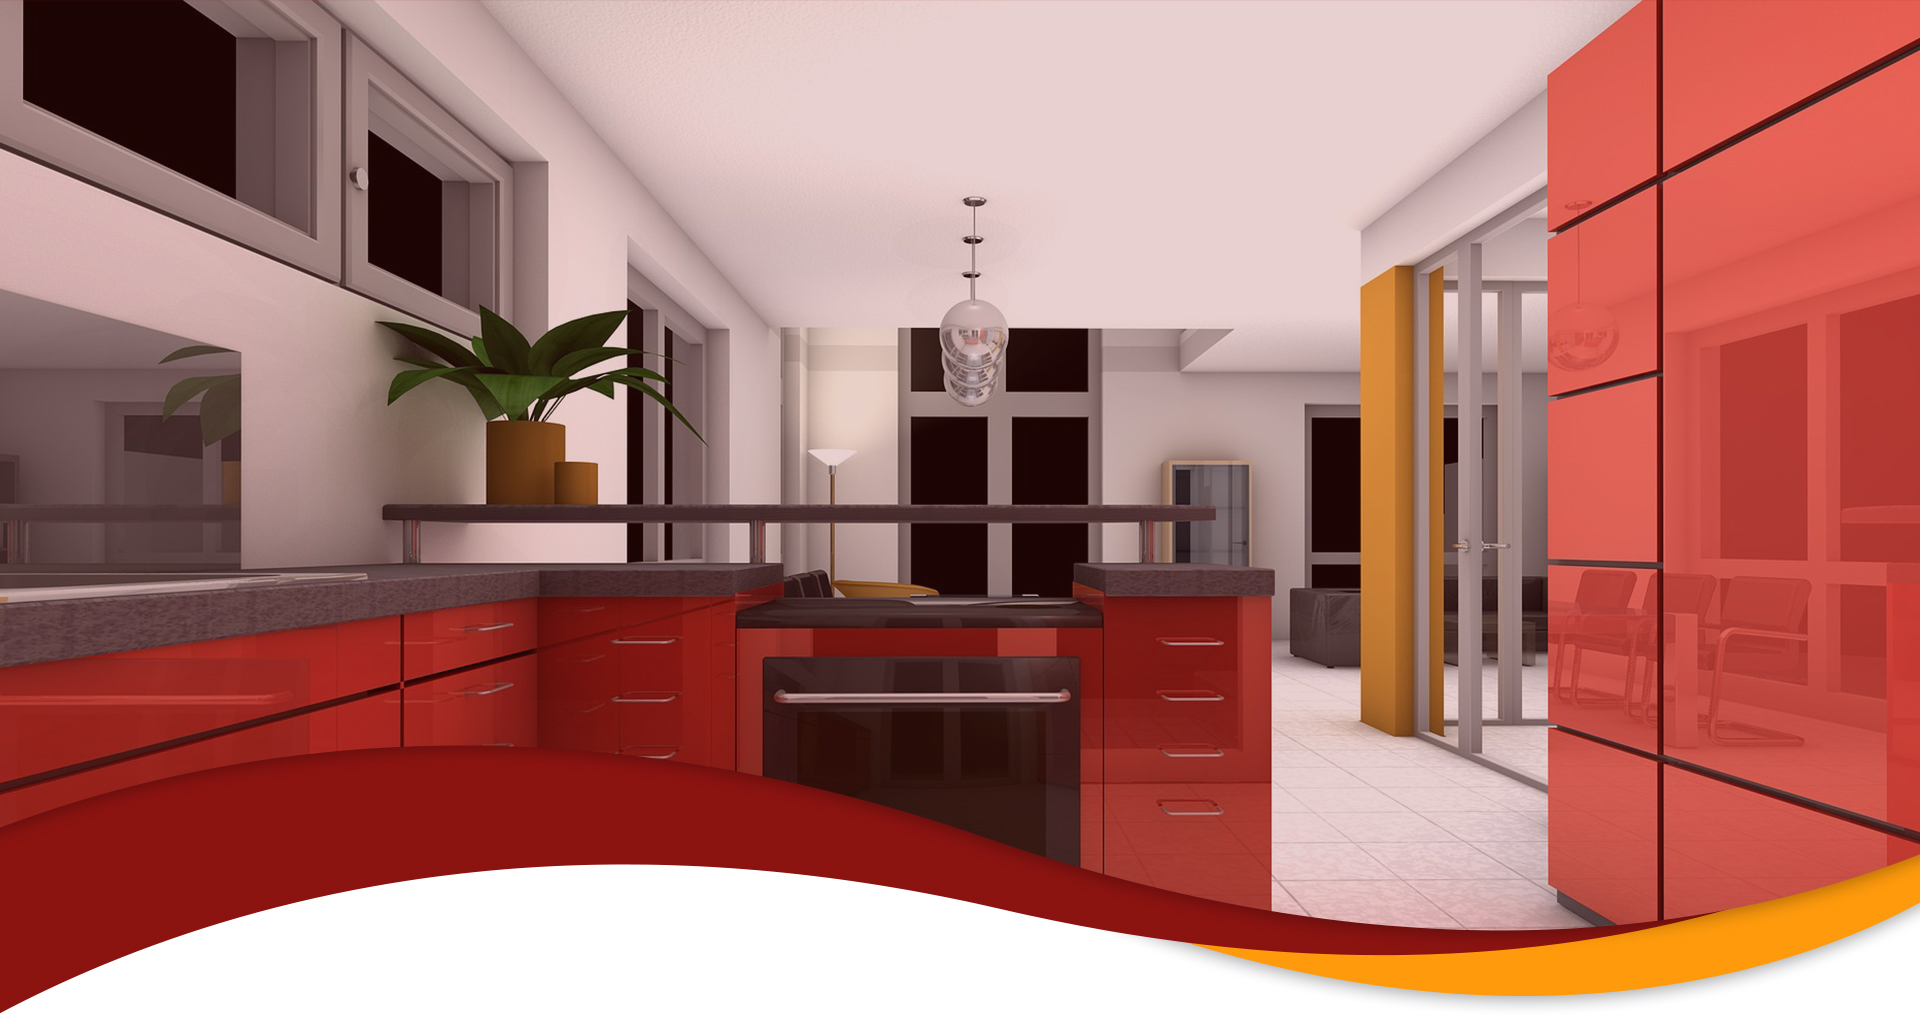
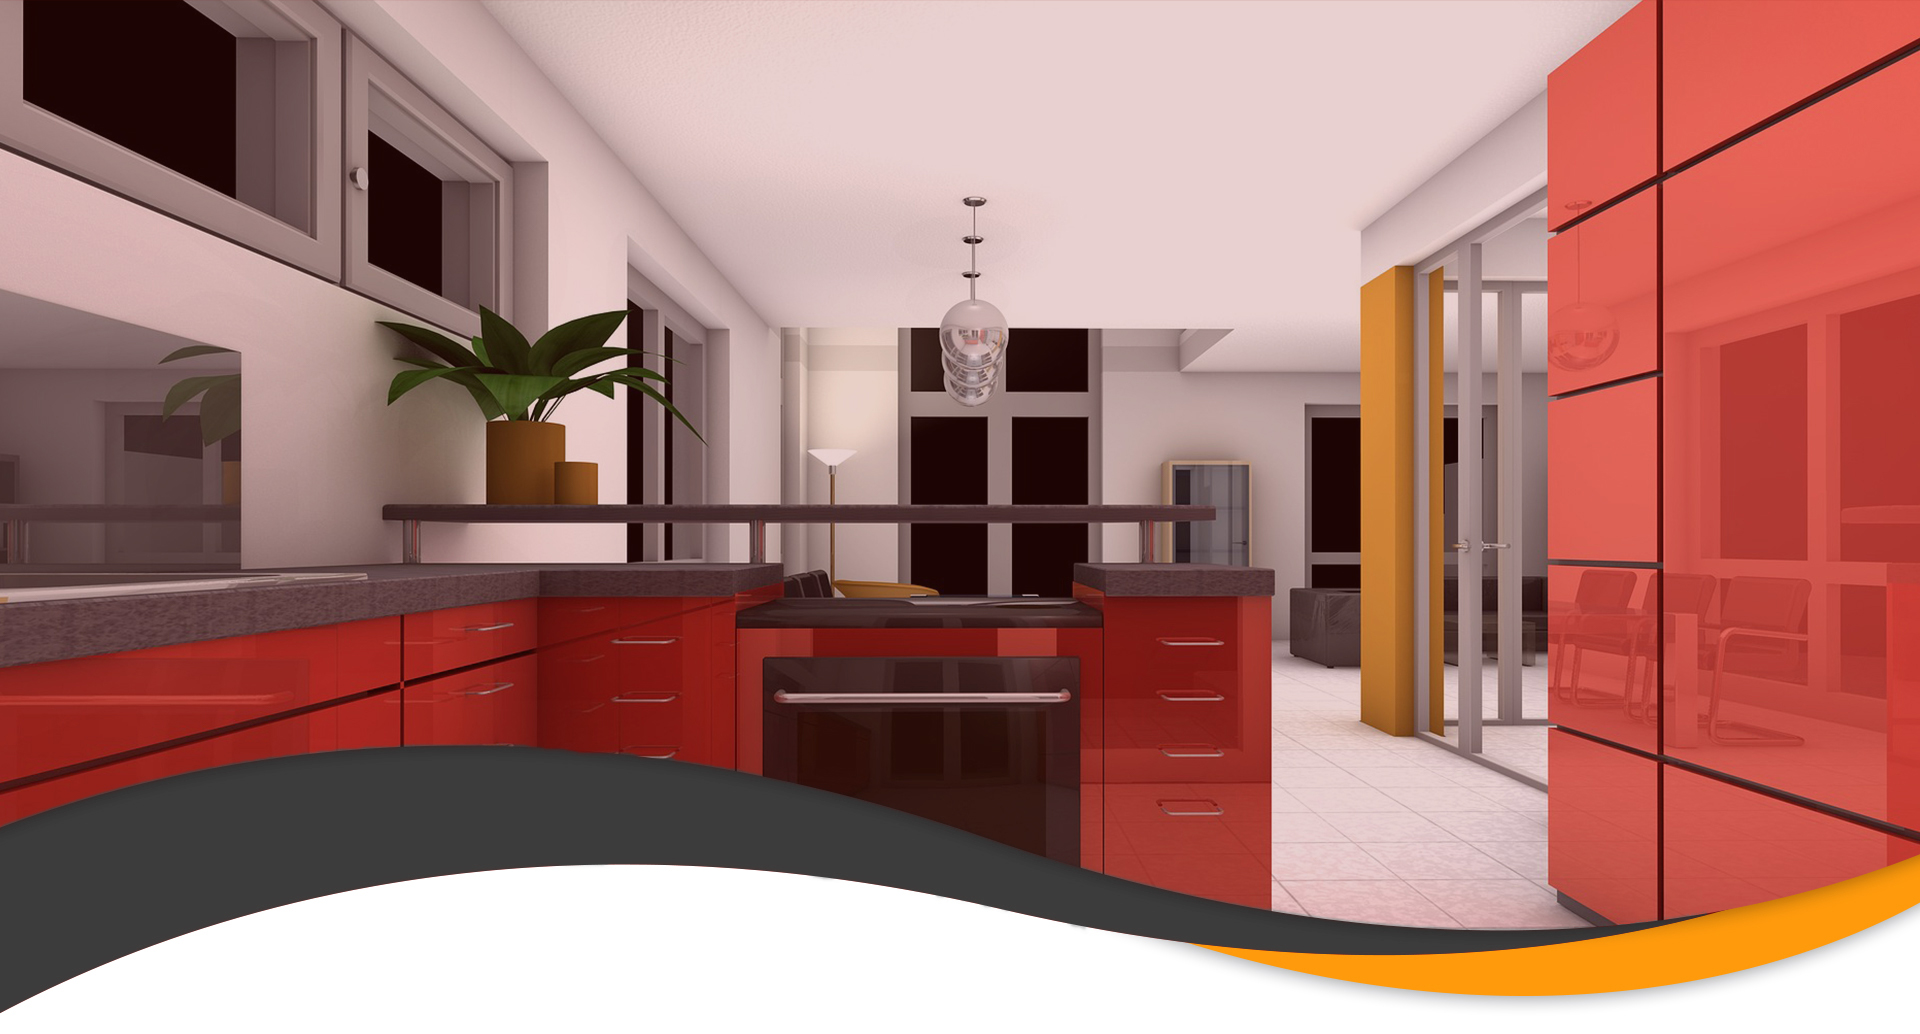
cOMMIT

Changed region(s): [[0.0, 0.7118, 0.8438, 0.9903], [0.8438, 0.8665, 0.875, 0.8975]]

diff --git a/css/style.css b/css/style.css
@@ -300,7 +300,7 @@ button {
 
 header {
      height: 105px;
-     background: #8b1310;
+     background: #3c3c3c;
      width: 100%;
      padding: 33px 30px;
 }
@@ -565,7 +565,7 @@ ul.email li img {
 
 .read_more {
      display: block;
-     background: #8b1310;
+     background: #3c3c3c;
      color: #fff;
      max-width: 224px;
      height: 61px;
@@ -646,13 +646,13 @@ ul.email li img {
 }
 
 .lisertab .servi_tab.active {
-     background: #7f1410e6;
+     background: #5f5f5f;
      color: #fff;
 }
 
 .lisertab .servi_tab:focus,
 .lisertab .servi_tab:hover {
-     background: #7f1410e6;
+     background: #5f5f5f;
      color: #fff;
 }
 
@@ -687,7 +687,7 @@ ul.email li img {
      bottom: 0;
      left: 0;
      transition: .5s ease;
-     background-color: #82171287;
+     background-color: #5f5f5f;
      border-radius: 381px;
      margin: 0 auto;
      opacity: 0;
@@ -824,7 +824,7 @@ ul.email li img {
 /** footer **/
 
 .footer {
-     background: #540705;
+     background: #3c3c3c;
      padding-top: 362px
 }
 
@@ -846,7 +846,7 @@ ul.social_icon li:last-child {
 
 ul.social_icon li a {
      background: #fff;
-     color: #540705;
+     color: #3c3c3c;
      width: 50px;
      height: 50px;
      display: inline-block;
@@ -1004,7 +1004,7 @@ ul.re_post li {
 .send {
      margin: 0 auto;
      display: block;
-     background: #540705;
+     background: #3c3c3c;
      color: #fff;
      max-width: 160px;
      padding: 10px 0px;

diff --git a/index.html b/index.html
@@ -180,7 +180,7 @@
                <div class="col-md-12">
                   <div class="titlepage">
                      <h2>Servicios</h2>
-                     <span>Entendemos tus necesidades y con gusto antendemos tus espectativas.</span>
+                     <span>ENTENDEMOS tus necesidades para ATENDER.</span>
                   </div>
                </div>
             </div>
